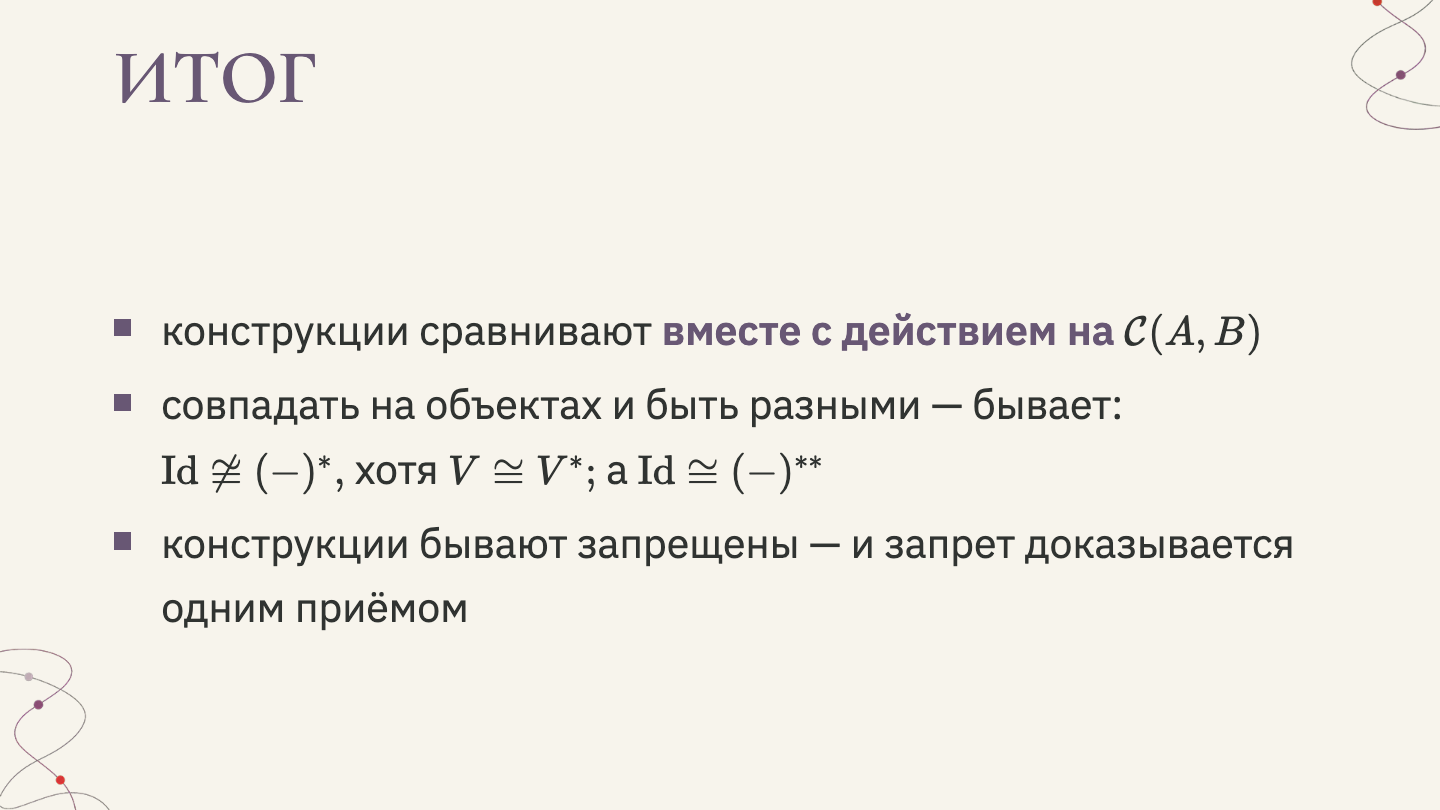
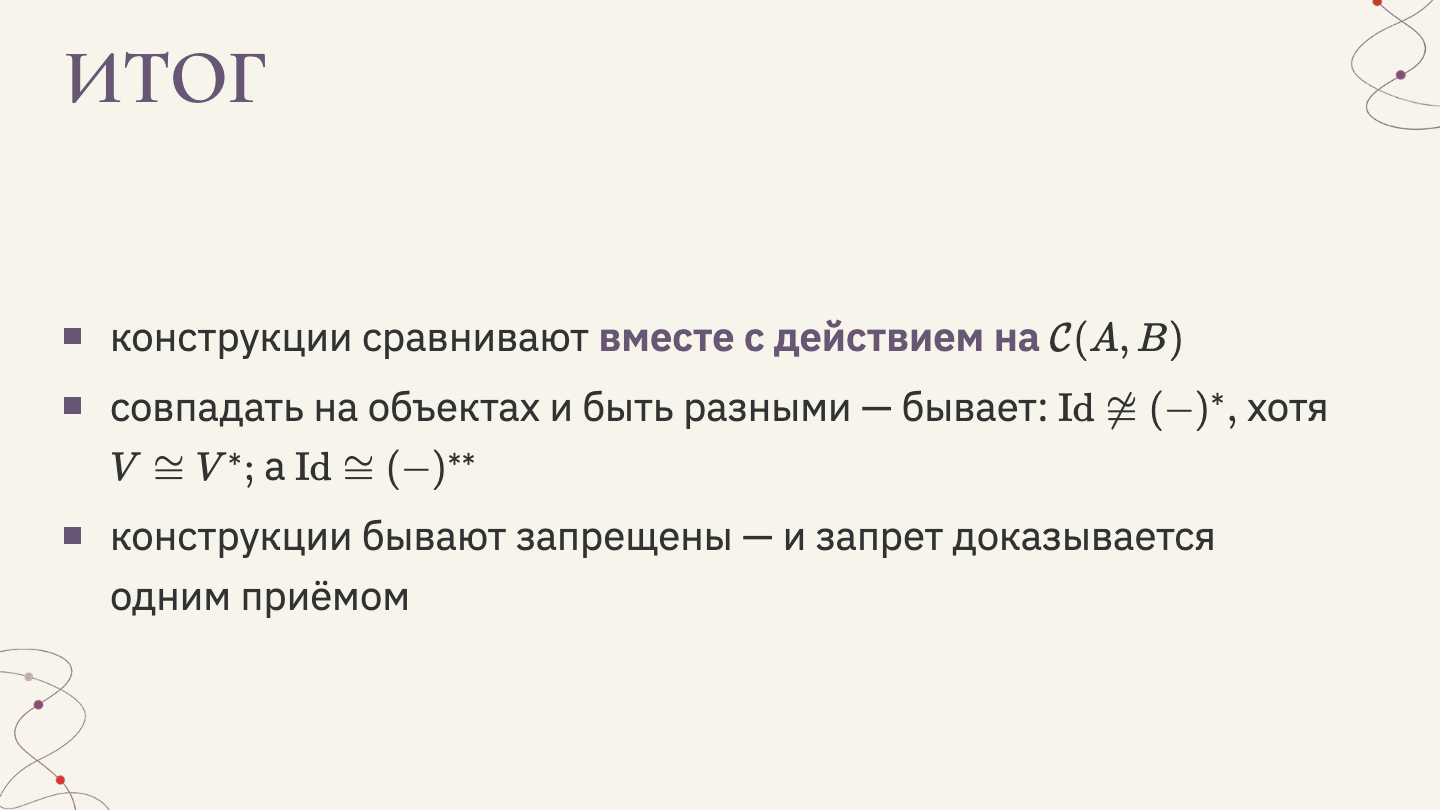
pravila-kadra дочистка-2: кадры пересняты под две вертикали Д5 (видны обе линии, 32 и 64) + таблица перебора perebor-d5.md с регистрацией в KARTA.md

diff --git a/_studio/zhurnal/2026-08-10_dizajn-i-metriki/kadry/perebor-d5.md b/_studio/zhurnal/2026-08-10_dizajn-i-metriki/kadry/perebor-d5.md
@@ -1,0 +1,89 @@
+# Перебор двух вертикалей — Д5 дочистки-2 захода `pravila-kadra`
+
+Дата данных: 2026-08-14, вечер. Лекция `teorkat-vvedenie/L2`, 21 мереная карточка.
+
+## Что перебиралось
+
+`X_SLUZH` — линия служебного (`.blk-h` — тихие подписи блоков; на неё же опирается
+линейка центрального блока `.blk-rule`).
+`DELTA_TEKST` — насколько правее неё стоит линия текста. `X_TEKST = X_SLUZH + DELTA_TEKST`.
+
+Обе живут в `_generator/sborka/tipy.py`; `base.css` вычитает `--x-delta` обратно,
+`smeta.py` берёт `X_TEKST` импортом (одно число — один дом).
+
+## Как считалось (метод, а не только результат)
+
+Каждый кандидат считан в СВОЕЙ копии дерева: текущий `_generator` плюс карточки
+лекции, взятые с HEAD (`git archive`), — чтобы солвер каждый раз стартовал из одной
+точки, а не из результата предыдущего кандидата.
+
+🔴 Сборка обязательно с `--zanovo`. Кэш подбора (`podbor_avto:` в шапке карточки)
+ключуется хэшем ТЕКСТА, а текст при смене геометрии не меняется: без флага солвер
+не перезапускается вовсе, и замер показал бы кегли от СТАРОЙ ширины колонки.
+Первая проба этого захода на это и наступила — сборка отработала за 1,4 с вместо 16 с.
+
+Переполнения — по браузеру (`smeta.py --sverit`, поле `brauzer_vlezaet`), не по
+оценке сметы: смета отвечает на другой вопрос и на этой лекции штатно завышает.
+
+## Таблица
+
+| X_SLUZH | DELTA | X_TEKST | переполнений | кегль ср. | кегль min |
+|---|---|---|---|---|---|
+| 32 | 16 | 48 | 0 | 37.238 | 28.0 |
+| 32 | 24 | 56 | 0 | **37.286** | 28.0 |
+| **32** | **32** | **64** | **0** | **37.286** | **28.0** |
+| 44 | 16 | 60 | 0 | **37.286** | 28.0 |
+| 44 | 24 | 68 | 0 | 37.190 | 28.0 |
+| 44 | 32 | 76 | 0 | 37.238 | 28.0 |
+| 56 | 16 | 72 | 0 | **37.286** | 28.0 |
+| 56 | 24 | 80 | 0 | 37.190 | 28.0 |
+| 56 | 32 | 88 | 0 | 37.143 | 28.0 |
+| 68 | 16 | 84 | 0 | 37.143 | 28.0 |
+| 68 | 24 | 92 | 0 | 37.000 | 28.0 |
+| 68 | 32 | 100 | 0 | 37.095 | 28.0 |
+
+База (геометрия HEAD, та же лекция, тот же `--zanovo`): переполнений **0 из 21**,
+средний кегль **37.381**, минимум 28.0.
+
+## Что из таблицы следует
+
+1. **Первый критерий не разделяет вовсе:** ноль переполнений даёт КАЖДЫЙ из
+   двенадцати кандидатов. Колонка в 1440 px достаточно широка, чтобы 100 px левого
+   поля не создали ни одного переполнения.
+2. **Второй разделяет слабо:** разброс среднего кегля 37.000 … 37.286, то есть
+   0,77 % между худшим и лучшим. Лучших ЧЕТЫРЕ с одинаковым 37.286 —
+   (32,24), (32,32), (44,16), (56,16).
+3. **Цена всей правки:** 37.381 → 37.286, просадка **0,25 %** среднего кегля;
+   переполнений 0 из 21 и до, и после. Минимальный кегль не изменился (28.0).
+
+## Чем решена развилка между четырьмя равными
+
+Не вкусом — двумя фразами владельца, каждая даёт вычислимый ориентир:
+
+- *«слова "утверждение", "пример" и т.д. можно оставить ПРИМЕРНО ТАМ ЖЕ»* — подписи
+  стояли на 18 px. Из четырёх кандидатов ближе всех к 18 — `X_SLUZH = 32`
+  (44 и 56 уводят подписи в 2,4 и 3,1 раза дальше от кромки).
+- *«найти ЗОЛОТУЮ СЕРЕДИНУ и унифицировать место, где у нас левый край текстовой
+  области»* — крайние значения были 18 (типы с иллюстрацией) и 114 (`tolko_tekst`),
+  их середина 66. Из четырёх ближе всех `X_TEKST = 64` при (32,32);
+  у (32,24) — 56, у (44,16) — 60, у (56,16) — 72.
+
+Обе фразы указывают на **(32, 32)**, и он же в числе лучших по кеглю. Принято.
+
+## Overscan — почему поле не может быть меньше
+
+Проектор и телевизор режут края кадра, у самой кромки текст теряется физически.
+После правки минимальное поле: **32 px** до подписи (2,2 % ширины кадра) и **22 px**
+до левого края линейки — против **18 px** и **8 px** сегодня. То есть поле не
+«осталось», а выросло вдвое; ниже 32 перебор не спускался намеренно.
+
+## Замер результата на собранной деке
+
+Все 21 контентный слайд: текст на **x = 64**, подписи блоков на **x = 32**, линейка
+центрального блока на **x ≈ 22** (она сохраняет свою посадку относительно подписи,
+0.26 em, — ту, что принята владельцем на эталоне `vektornye-prostranstva`).
+До правки: текст 18 у двенадцати слайдов и 114 у девяти, подписи там же, где текст.
+
+Служебная `vizitka` из унификации выведена явным override (`padding-left:18px`):
+её левый край задаёт не кромка кадра, а доска 410 px плюс жёлоб 56 px, и служебные
+слайды по шаблону дизайнеров — чужой заход.

diff --git a/_studio/zhurnal/_INFRA-git/INCIDENTY.md b/_studio/zhurnal/_INFRA-git/INCIDENTY.md
@@ -357,3 +357,5 @@ Cowork записал ссылки `SPEKA + знак секции + «Ступе
 - 2026-08-14 17:42 · zahod/konflikty · коммит слияния с --no-verify: чужой долг: фикстура korni/PROGNAT.sh красна на baseline (ModuleNotFoundError: modeli под временной копией) · → назвать причину долгом в отчёте захода; своё красное — чинить · статус: открыт
 - 2026-08-14 17:53 · zahod/konflikty · коммит с --no-verify: чужой долг: фикстура korni/PROGNAT.sh красна на baseline (ModuleNotFoundError: modeli под временной копией) — воспроизведено на arka/mat-kostyak без моих правок · → назвать причину долгом в отчёте захода; своё красное — чинить · статус: открыт
 - 2026-08-14 17:53 · zahod/konflikty · коммит с --no-verify: чужой долг: та же фикстура korni/PROGNAT.sh, красная на baseline · → назвать причину долгом в отчёте захода; своё красное — чинить · статус: открыт
+- 2026-08-15 01:08 · zahod/pravila-kadra · коммит с --no-verify: чужой долг: ловушка 38 в _generator/tools/fixtures/sborka/PROGNAT.sh — smeta.py --sverit даёт 4 ❌ из 21 (расхождение калибровки оценщика с браузером); ровно столько же, 4 из 21, на HEAD fff0d70 ДО дочистки-2, замерено чистой копией дерева. Переполнений по браузеру 0 из 21 и до, и после. Калибровка сметы в Д4-Д8 не входила · → назвать причину долгом в отчёте захода; своё красное — чинить · статус: открыт
+- 2026-08-15 01:09 · zahod/pravila-kadra · коммит с --no-verify: чужой долг: та же ловушка 38 в _generator/tools/fixtures/sborka/PROGNAT.sh (калибровка сметы, 4 ❌ из 21 и на HEAD fff0d70, и сейчас) — она красит pre-commit на любом коммите этой рабочей папки, включая коммит одних только кадров · → назвать причину долгом в отчёте захода; своё красное — чинить · статус: открыт

diff --git a/_studio/docs/KARTA.md b/_studio/docs/KARTA.md
@@ -750,6 +750,8 @@
 
 **`_studio/zhurnal/2026-08-10_dizajn-i-metriki/polya-i-uzor/podbor-e2.md`** (Таблица перебора Э2 (боковые/нижнее поля), заход polya-i-uzor)
 
+**`_studio/zhurnal/2026-08-10_dizajn-i-metriki/kadry/perebor-d5.md`** (Д5 дочистки-2 pravila-kadra: таблица перебора двух вертикалей (12 кандидатов), метод замера и обоснование выбранных чисел)
+
 
 ## §7. Модель памяти
 Две памяти: **долгая** (дома `docs/`) vs **локальная** (папка арки `zhurnal/<арка>/`). Долгую читаем раз на входе в арку, дальше на дистиллятах. Один дом на сущность; durable из арки → по домам при закрытии. «Осталось только в дневнике — не существует.» Механика — `kak-delat/ARKA.md`.
